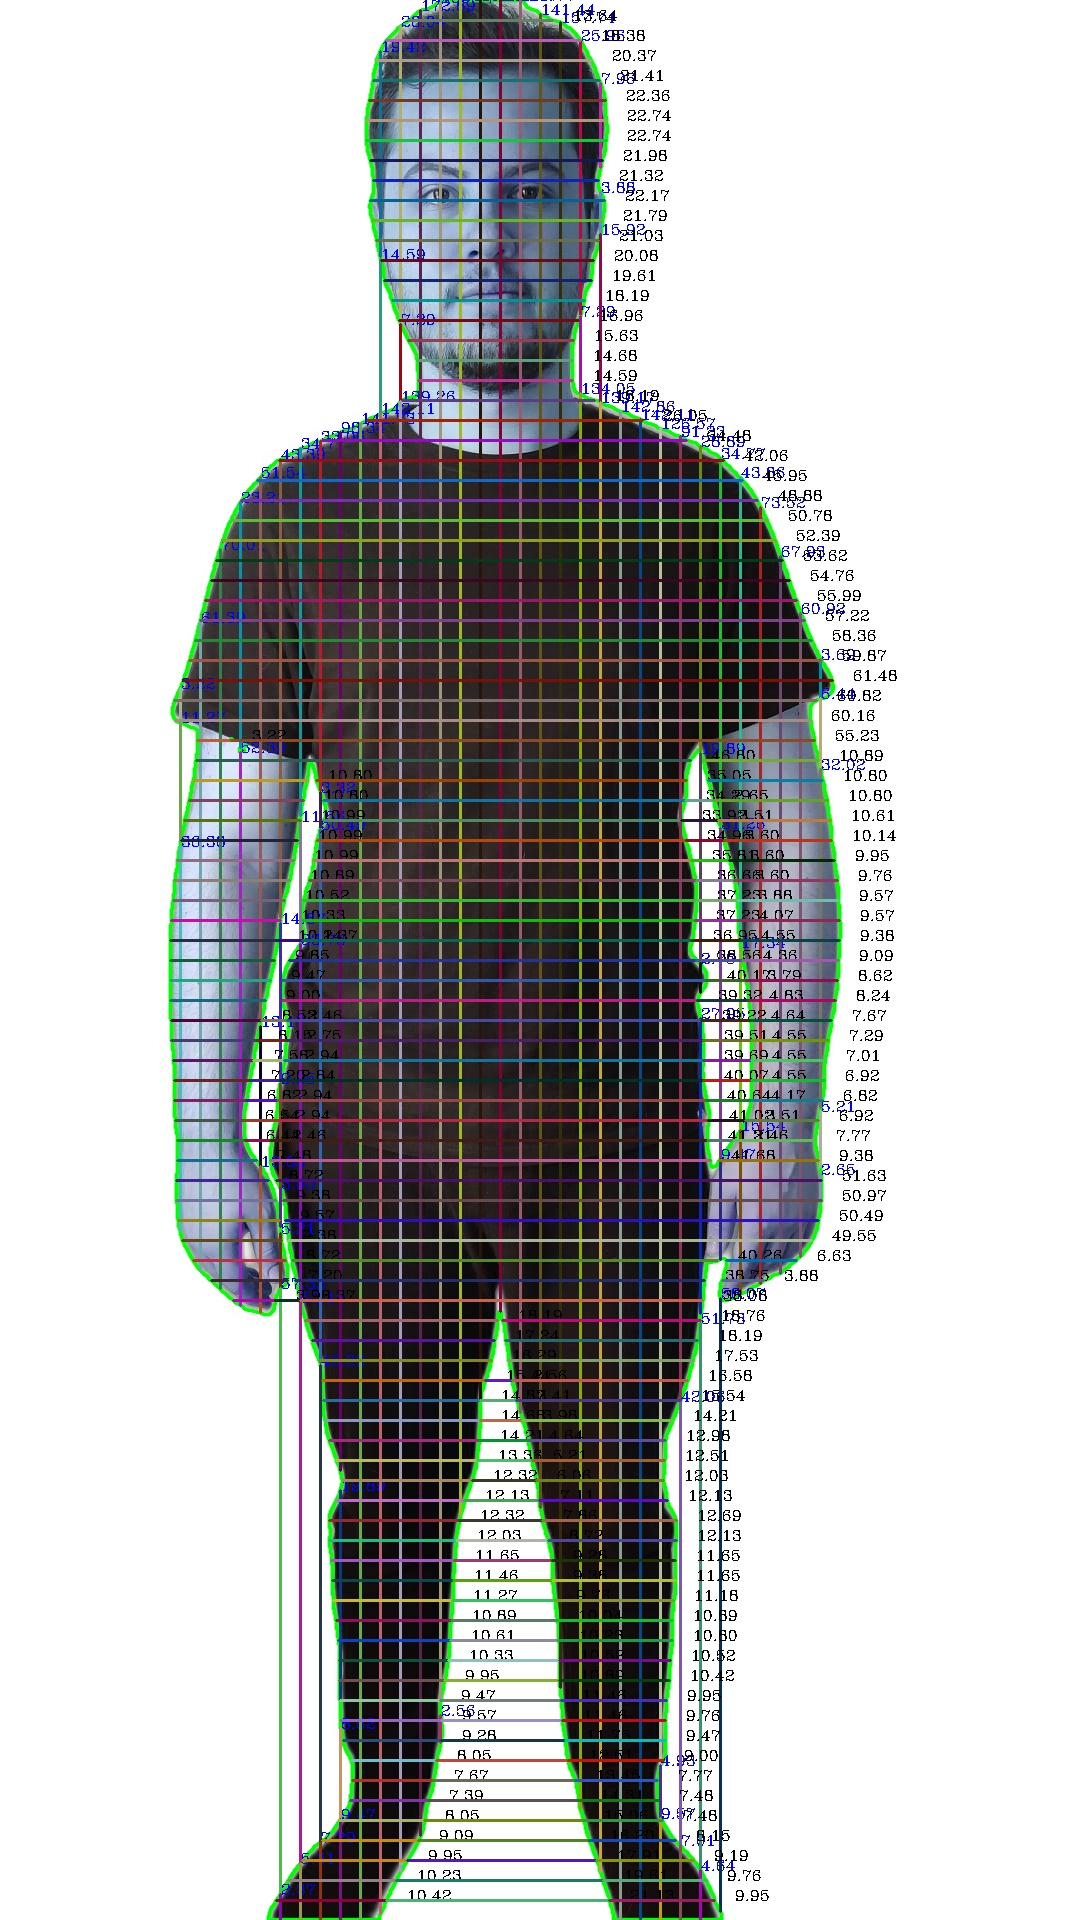
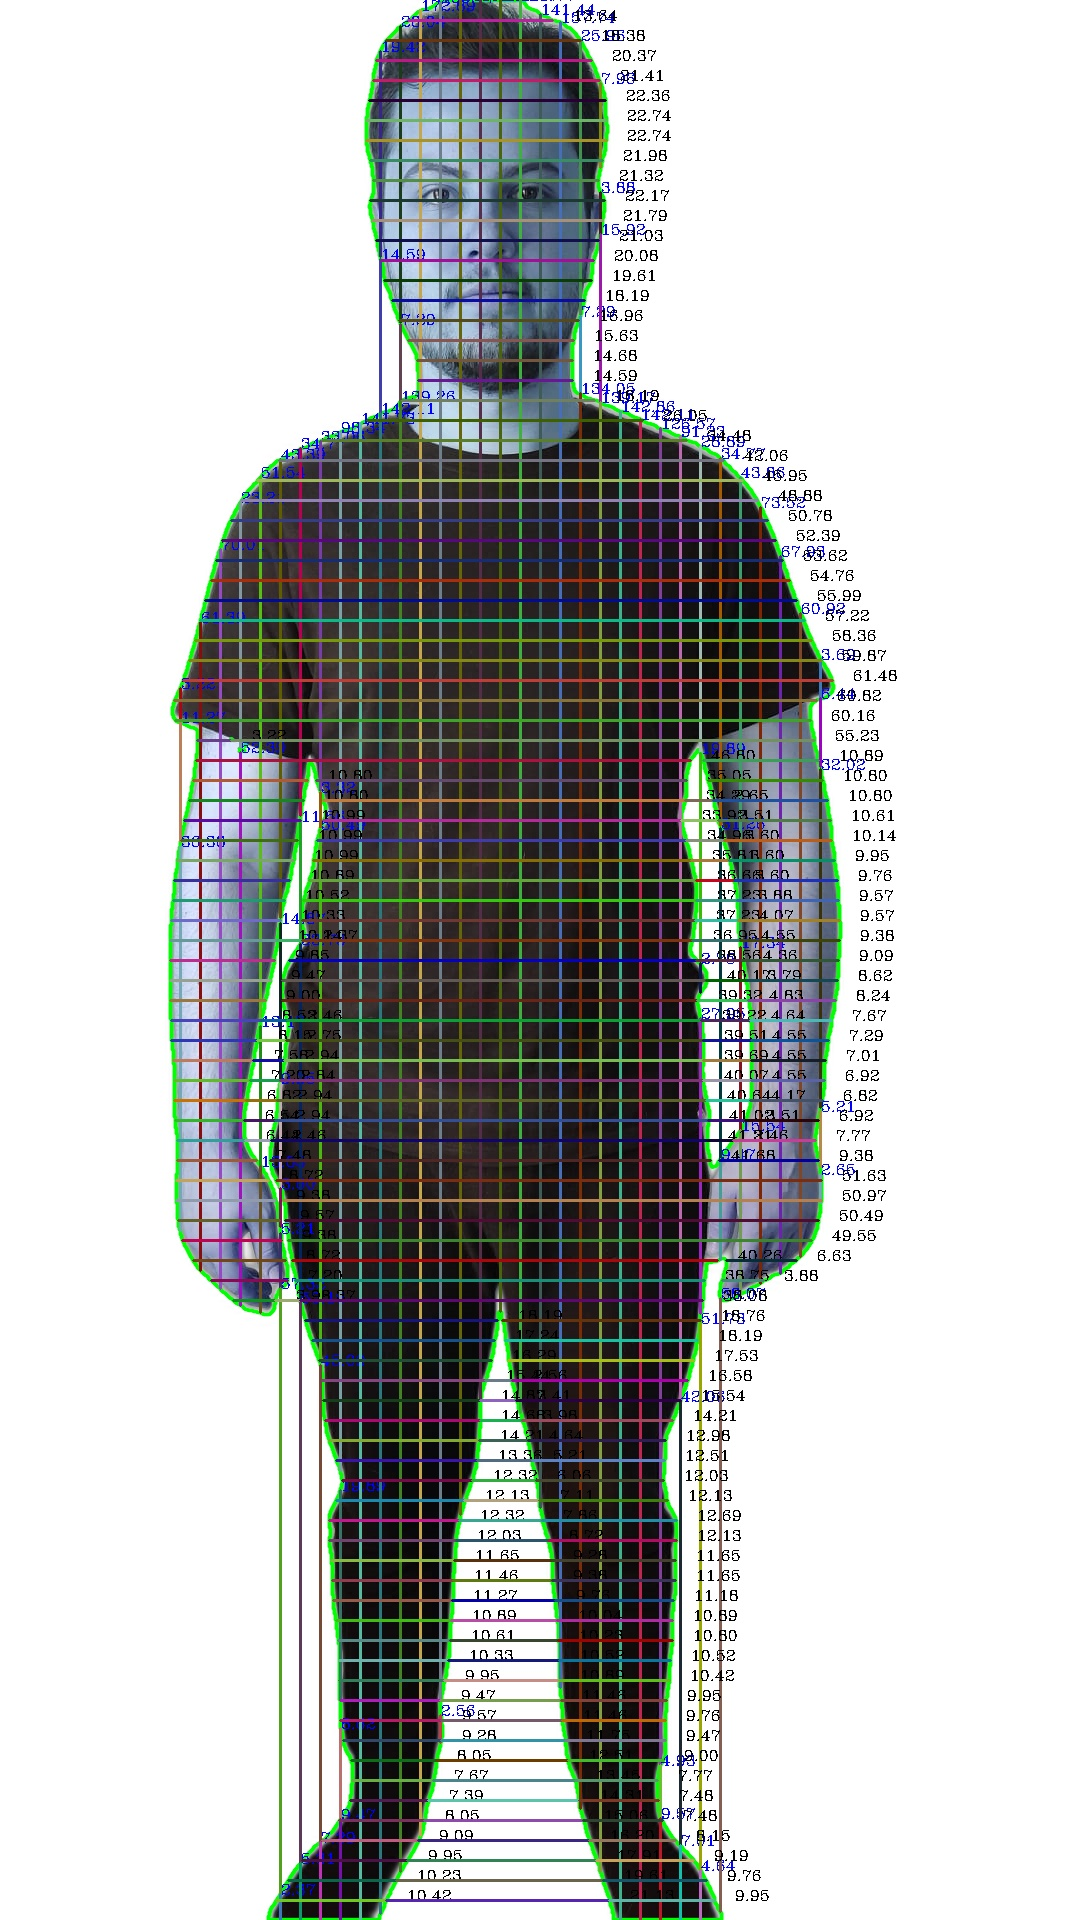
refactor

Changed region(s): [[0.1528, 0.0, 0.7639, 1.0]]

diff --git a/Logic/ImageOperations/MeasureObject.py b/Logic/ImageOperations/MeasureObject.py
@@ -3,45 +3,7 @@ import cv2
 from Logic.Utils.ColorUtil import generate_random_color
 
 
-def get_horizontal_intersection_coords(coords, distinct_y_intersections):
-    horizontal_intersection_coords = list()
-    for j in distinct_y_intersections:
-        distinct_y_coords = list()
-        for i in coords:
-            if i not in distinct_y_coords and i[0] == j:
-                distinct_y_coords.append(i)
-        horizontal_intersection_coords.append(distinct_y_coords)
-    return horizontal_intersection_coords
-
-
-def get_vertical_intersection_coords(coords, distinct_x_intersections):
-    vertical_intersection_coords = list()
-    for j in distinct_x_intersections:
-        distinct_x_coords = list()
-        for i in coords:
-            if i not in distinct_x_coords and i[1] == j:
-                distinct_x_coords.append(i)
-        vertical_intersection_coords.append(distinct_x_coords)
-    return vertical_intersection_coords
-
-
-def get_distinct_y_intersections(coords):
-    distinct_y_intersections = list()
-    for i in range(len(coords)):
-        if coords[i][0] not in distinct_y_intersections:
-            distinct_y_intersections.append(coords[i][0])
-    return distinct_y_intersections
-
-
-def get_distinct_x_intersections(coords):
-    distinct_x_intersections = list()
-    for i in range(len(coords)):
-        if coords[i][1] not in distinct_x_intersections:
-            distinct_x_intersections.append(coords[i][1])
-    return distinct_x_intersections
-
-
-def draw_y_lines(_img, y_coords, pixel_ratio):
+def draw_horizontal_lines(_img, y_coords, pixel_ratio):
     y_coords.sort()
     for k in y_coords:
         k.sort()
@@ -55,7 +17,7 @@ def draw_y_lines(_img, y_coords, pixel_ratio):
                 cv2.putText(_img, distance, point1, cv2.FONT_HERSHEY_COMPLEX, 0.5, (255, 0, 0))
 
 
-def draw_x_lines(_img, x_coords, pixel_ratio):
+def draw_vertical_lines(_img, x_coords, pixel_ratio):
     x_coords.sort()
     for k in x_coords:
         k.sort()
@@ -79,25 +41,9 @@ def calculate_horizontal_distance(p1, p2, pixel_ratio):
     return dis
 
 
-def calculate_object_height_pixel_ratio(vertical_list, object_height):
-    distinct_x_intersections = get_distinct_x_intersections(vertical_list)
-    min_y = min(distinct_x_intersections)
-    max_y = max(distinct_x_intersections)
-
-    pixel_ratio = object_height / (max_y - min_y)
-
-    return pixel_ratio
-
-
-def measure(img, horizontal_list, vertical_list, pixel_ratio):
-    distinct_y_intersections = get_distinct_y_intersections(horizontal_list)
-    distinct_x_intersections = get_distinct_x_intersections(vertical_list)
-
-    horizontal_intersection_coords = get_horizontal_intersection_coords(horizontal_list, distinct_y_intersections)
-    vertical_intersection_coords = get_vertical_intersection_coords(vertical_list, distinct_x_intersections)
-
-    draw_y_lines(img, horizontal_intersection_coords, pixel_ratio)
-    draw_x_lines(img, vertical_intersection_coords, pixel_ratio)
+def measure(img, horizontal_intersection_coords, vertical_intersection_coords, pixel_ratio):
+    draw_horizontal_lines(img, horizontal_intersection_coords, pixel_ratio)
+    draw_vertical_lines(img, vertical_intersection_coords, pixel_ratio)
 
     img = cv2.cvtColor(img, cv2.COLOR_BGR2RGB)
     img_pil = Image.fromarray(img)

diff --git a/Logic/ImageOperations/SpecifyIntersections.py b/Logic/ImageOperations/SpecifyIntersections.py
@@ -1,34 +1,52 @@
+from Logic.Utils.ListUtil import get_sub_lists
+
+
 def find_intersections(contours_list, interval):
-    coords = get_contour_coordinates(contours_list)
-    horizontal_intersections = get_horizontal_intersections(coords, interval)
-    vertical_intersections = get_vertical_intersections(coords, interval)
+    coords = get_sub_lists(contours_list)
+    distinct_x_intersections = get_distinct_x_intersections(coords, interval)
+    distinct_y_intersections = get_distinct_y_intersections(coords, interval)
+    horizontal_intersections = get_horizontal_intersection_coords(coords, distinct_y_intersections)
+    vertical_intersections = get_vertical_intersection_coords(coords, distinct_x_intersections)
     return horizontal_intersections, vertical_intersections
 
 
-def get_contour_coordinates(contours):
-    coordinates = []
-    for contour in contours:
-        sub_coordinates = []
-        for position in contour:
-            [[x, y]] = position
-            sub_coordinates.append([x, y])
-        coordinates.append(sub_coordinates)
-    return coordinates
-
-
-def get_horizontal_intersections(coords, interval):
-    horizontal_intersections = list()
+def get_distinct_y_intersections(coords, interval):
+    distinct_y_intersections = list()
     for i in range(len(coords)):
         for j in range(len(coords[i])):
-            if coords[i][j][0] % interval == 0:
-                horizontal_intersections.append([coords[i][j][0], coords[i][j][1]])
-    return horizontal_intersections
+            if coords[i][j][0] not in distinct_y_intersections and coords[i][j][0] % interval == 0:
+                distinct_y_intersections.append(coords[i][j][0])
+    return distinct_y_intersections
 
 
-def get_vertical_intersections(coords, interval):
-    vertical_intersections = list()
+def get_distinct_x_intersections(coords, interval):
+    distinct_x_intersections = list()
     for i in range(len(coords)):
         for j in range(len(coords[i])):
-            if coords[i][j][1] % interval == 0:
-                vertical_intersections.append([coords[i][j][0], coords[i][j][1]])
-    return vertical_intersections
+            if coords[i][j][1] not in distinct_x_intersections and coords[i][j][1] % interval == 0:
+                distinct_x_intersections.append(coords[i][j][1])
+    return distinct_x_intersections
+
+
+def get_horizontal_intersection_coords(coords, distinct_y_intersections):
+    horizontal_intersection_coords = list()
+    for j in distinct_y_intersections:
+        distinct_y_coords = list()
+        for i in coords:
+            for k in i:
+                if i not in distinct_y_coords and k[0] == j:
+                    distinct_y_coords.append(k)
+            horizontal_intersection_coords.append(distinct_y_coords)
+    return horizontal_intersection_coords
+
+
+def get_vertical_intersection_coords(coords, distinct_x_intersections):
+    vertical_intersection_coords = list()
+    for j in distinct_x_intersections:
+        distinct_x_coords = list()
+        for i in coords:
+            for k in i:
+                if i not in distinct_x_coords and k[1] == j:
+                    distinct_x_coords.append(k)
+            vertical_intersection_coords.append(distinct_x_coords)
+    return vertical_intersection_coords

diff --git a/main.py b/main.py
@@ -3,7 +3,7 @@ import sys
 import numpy
 from Logic.CameraOperations.OpenCamera import open_camera
 from Logic.ImageOperations.EdgeDetection import edge_detection
-from Logic.ImageOperations.MeasureObject import calculate_object_height_pixel_ratio
+from Logic.ImageOperations.PixelRatio import calculate_object_height_pixel_ratio
 from Logic.ImageOperations.MeasureObject import measure
 from Logic.ImageOperations.RemoveBackground import remove_background
 from Logic.ImageOperations.SpecifyIntersections import find_intersections
@@ -47,7 +47,7 @@ def main():
             horizontal_list, vertical_list = find_intersections(contour_list, interval)
 
             if item == "Images/0.jpg":
-                pixel_ratio = calculate_object_height_pixel_ratio(vertical_list, height)
+                pixel_ratio = calculate_object_height_pixel_ratio(contour_list, interval, height)
 
             # Measure object and save final image.
             # Takes Image,ImageName,Image Saving Path, Horizontal Intersection List, Vertical Intersection List

diff --git a/Logic/ImageOperations/PixelRatio.py b/Logic/ImageOperations/PixelRatio.py
@@ -1,0 +1,13 @@
+from Logic.Utils.ListUtil import get_sub_lists
+from Logic.ImageOperations.SpecifyIntersections import get_distinct_x_intersections
+
+
+def calculate_object_height_pixel_ratio(contour_list, interval, object_height):
+    coords = get_sub_lists(contour_list)
+    distinct_x_intersections = get_distinct_x_intersections(coords, interval)
+    min_y = min(distinct_x_intersections)
+    max_y = max(distinct_x_intersections)
+
+    pixel_ratio = object_height / (max_y - min_y)
+
+    return pixel_ratio

diff --git a/Logic/Utils/ListUtil.py b/Logic/Utils/ListUtil.py
@@ -1,0 +1,9 @@
+def get_sub_lists(_list):
+    unpacked_list = []
+    for sub_list in _list:
+        sub_coordinates = []
+        for position in sub_list:
+            [[x, y]] = position
+            sub_coordinates.append([x, y])
+        unpacked_list.append(sub_coordinates)
+    return unpacked_list
